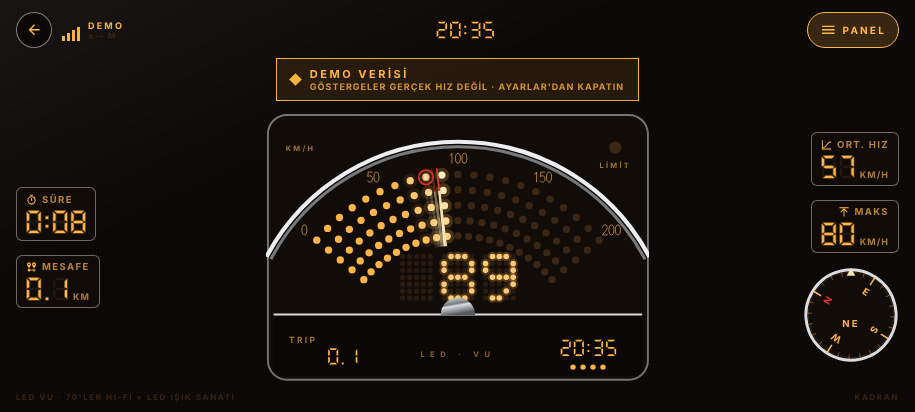
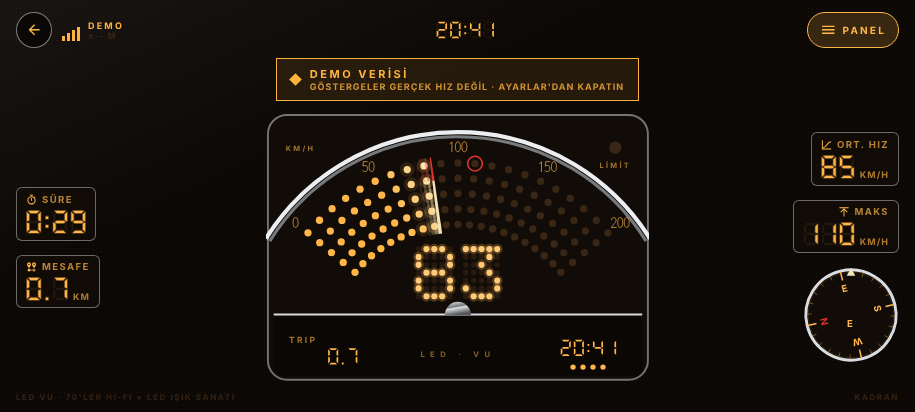
LED VU: hız rakamları tam ortada, daha büyük; yelpaze dışarı alındı
Claude-Session: https://claude.ai/code/session_01HLXDZa9bFVa9KDB76CVmjz

diff --git a/src/components/kadran/Gauges.tsx b/src/components/kadran/Gauges.tsx
@@ -675,7 +675,7 @@ const VfdGauge = memo(function VfdGauge({ speed, max, width, pal, unit, over, re
 //    krom at nalı çerçeve, LED ışın yelpazesi, gerçek analog ibre ve arkasında sönen hayalet izler,
 //    5×7 nokta vuruşlu amber rakamlar (tabela ampulü gibi), yolculuk maksimumunda halka işaret
 // ---------------------------------------------------------------------------
-const LV = { cx: 50, cy: 64, a0: 220, sw: 100, rays: 21, radii: [32, 36, 40, 44, 48] };
+const LV = { cx: 50, cy: 64, a0: 220, sw: 100, rays: 21, radii: [35, 39, 43, 47, 51] };
 /** 5×7 nokta vuruşlu rakamlar */
 const DOT5x7: Record<string, string[]> = {
   '0': ['01110', '10001', '10011', '10101', '11001', '10001', '01110'],
@@ -698,13 +698,13 @@ const LV_DOTS = Array.from({ length: LV.rays }, (_, i) => {
 
 /** İbre (pivot çevresinde döner; yalnızca r1..r2 arası çizilir: rakamların üstünden geçmez) */
 function VuNeedle({ f, k, delta = 0, opacity = 1, color, tip }: { f: SharedValue<number>; k: number; delta?: number; opacity?: number; color: string; tip: string }) {
-  const L = 51;
+  const L = 54;
   const style = useAnimatedStyle(() => ({ transform: [{ rotate: `${LV.a0 + LV.sw * Math.max(0, Math.min(1.01, f.value - delta))}deg` }] }));
   return (
     <Animated.View pointerEvents="none" style={[{ position: 'absolute', left: (LV.cx - L) * k, top: (LV.cy - L) * k, width: 2 * L * k, height: 2 * L * k, opacity }, style]}>
       <Svg width={2 * L * k} height={2 * L * k} viewBox={`${-L} ${-L} ${2 * L} ${2 * L}`}>
-        <Path d="M29.5 -0.45 L44 -0.3 L44 0.3 L29.5 0.45 Z" fill={color} />
-        <Path d="M44 -0.3 L50 -0.18 L50 0.18 L44 0.3 Z" fill={tip} />
+        <Path d="M33 -0.45 L47 -0.3 L47 0.3 L33 0.45 Z" fill={color} />
+        <Path d="M47 -0.3 L53 -0.18 L53 0.18 L47 0.3 Z" fill={tip} />
       </Svg>
     </Animated.View>
   );
@@ -722,12 +722,13 @@ const LedGauge = memo(function LedGauge({ speed, max, width, pal, unit, over, re
   const amber = over ? pal.danger : pal.text;
   const hot = over ? '#FFD0C8' : pal.secondary;
   const unlit = pal.dim;
-  // 5×7 rakamlar
-  const txt = (shown == null ? '--' : String(shown)).padStart(3, ' ').slice(-3);
-  const P = 1.8;
-  const digW = 5 * P + 1.8;
-  const x0 = LV.cx - (3 * digW - 1.8) / 2 + P / 2;
-  const y0 = 37.4;
+  // 5×7 rakamlar: yalnızca gerçek basamaklar çizilir, blok tam ortada (pivotun üstünde)
+  const txt = (shown == null ? '--' : String(shown)).slice(-3);
+  const P = 2.05;
+  const digW = 6 * P;
+  const blockW = txt.length * digW - P; // son basamaktan sonra boşluk yok
+  const x0 = LV.cx - blockW / 2 + P / 2;
+  const y0 = 41.6 - 3 * P;
   const dotsOn: { x: number; y: number }[] = [];
   const dotsOff: { x: number; y: number }[] = [];
   [...txt].forEach((ch, di) => {
@@ -744,8 +745,8 @@ const LedGauge = memo(function LedGauge({ speed, max, width, pal, unit, over, re
         <ChromeDefs id={id} pal={pal} />
         <Rect x={0.5} y={0.5} width={99} height={69} rx={5} fill={pal.face} stroke={alpha(pal.chrome, 0.5)} strokeWidth={0.5} />
         {/* krom at nalı */}
-        <Path d={arc(LV.cx, LV.cy, 56.5, 208, 332)} stroke={mix(pal.chrome, '#FFFFFF', 0.5)} strokeWidth={1.1} fill="none" />
-        <Path d={arc(LV.cx, LV.cy, 55.2, 208, 332)} stroke={shade(pal.chrome, 0.55)} strokeWidth={0.8} fill="none" />
+        <Path d={arc(LV.cx, LV.cy, 59, 212, 328)} stroke={mix(pal.chrome, '#FFFFFF', 0.5)} strokeWidth={1.1} fill="none" />
+        <Path d={arc(LV.cx, LV.cy, 57.8, 212, 328)} stroke={shade(pal.chrome, 0.55)} strokeWidth={0.8} fill="none" />
         {/* LED ışın yelpazesi: ibreye yakın ışınlar daha sıcak (kuyruklu yıldız) */}
         {LV_DOTS.map((ray, i) => {
           const on = i <= lit;
@@ -763,7 +764,7 @@ const LedGauge = memo(function LedGauge({ speed, max, width, pal, unit, over, re
         {/* yolculuk maksimumu: en dış noktada halka */}
         {peakRay >= 0 ? <Circle cx={LV_DOTS[peakRay][4][0]} cy={LV_DOTS[peakRay][4][1]} r={1.9} stroke={pal.holo} strokeWidth={0.4} fill="none" /> : null}
         {[0, 5, 10, 15, 20].map((i) => {
-          const [x, y] = pt(LV.cx, LV.cy, 52.2, LV.a0 + (LV.sw * i) / (LV.rays - 1));
+          const [x, y] = pt(LV.cx, LV.cy, 55.2, LV.a0 + (LV.sw * i) / (LV.rays - 1));
           return <DialNum key={i} text={String(Math.round((max * i) / 20))} x={x} y={y} h={2.6} color={alpha(pal.text, 0.75)} style="classic" cond={0.8} />;
         })}
         {/* hız uyarı lambası */}
@@ -777,18 +778,18 @@ const LedGauge = memo(function LedGauge({ speed, max, width, pal, unit, over, re
         </Label>
         {/* 5×7 nokta vuruşlu hız */}
         {dotsOff.map((p, i) => (
-          <Circle key={`o${i}`} cx={p.x} cy={p.y} r={0.68} fill={unlit} opacity={0.55} />
+          <Circle key={`o${i}`} cx={p.x} cy={p.y} r={0.75} fill={unlit} opacity={0.55} />
         ))}
         {dotsOn.map((p, i) => (
-          <Circle key={`g${i}`} cx={p.x} cy={p.y} r={1.25} fill={amber} opacity={0.25} />
+          <Circle key={`g${i}`} cx={p.x} cy={p.y} r={1.4} fill={amber} opacity={0.25} />
         ))}
         {dotsOn.map((p, i) => (
-          <Circle key={`n${i}`} cx={p.x} cy={p.y} r={0.72} fill={mix(amber, hot, 0.35)} />
+          <Circle key={`n${i}`} cx={p.x} cy={p.y} r={0.8} fill={mix(amber, hot, 0.35)} />
         ))}
         {/* isim plakası */}
         <Rect x={2} y={52.5} width={96} height={16} rx={2} fill={shade(pal.face, 0.6)} />
         <Path d="M2 52.5 H98" stroke={pal.chrome} strokeWidth={0.5} />
-        <Path d={`M${LV.cx - 4.5} 52.6 A4.5 4.5 0 0 1 ${LV.cx + 4.5} 52.6 Z`} fill={`url(#${id}c)`} />
+        <Path d={`M${LV.cx - 3.4} 52.6 A3.4 3.4 0 0 1 ${LV.cx + 3.4} 52.6 Z`} fill={`url(#${id}c)`} />
         <Label x={6} y={60} size={2.2} color={alpha(pal.text, 0.6)} anchor="start" spacing={0.6}>
           TRIP
         </Label>
